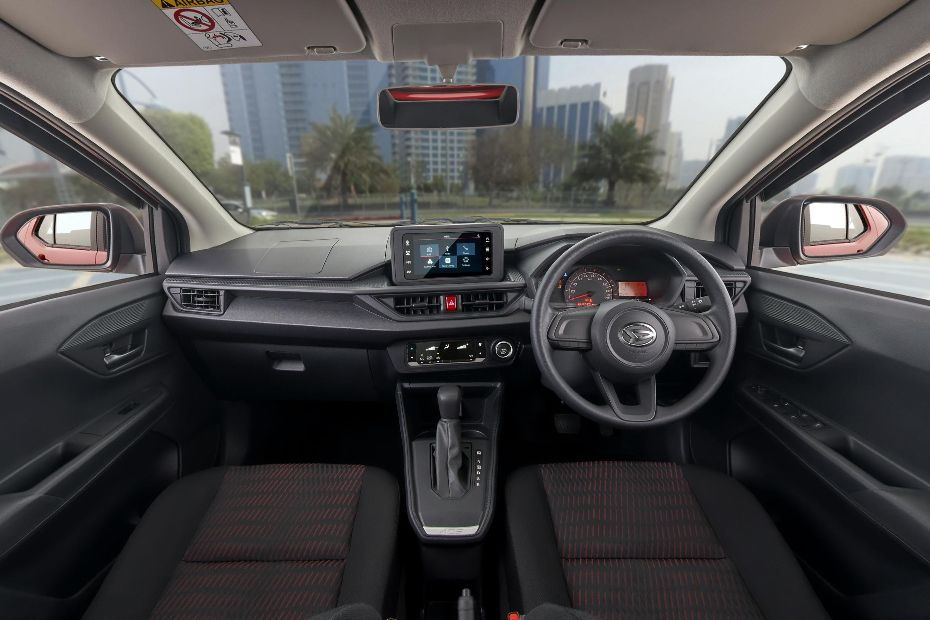
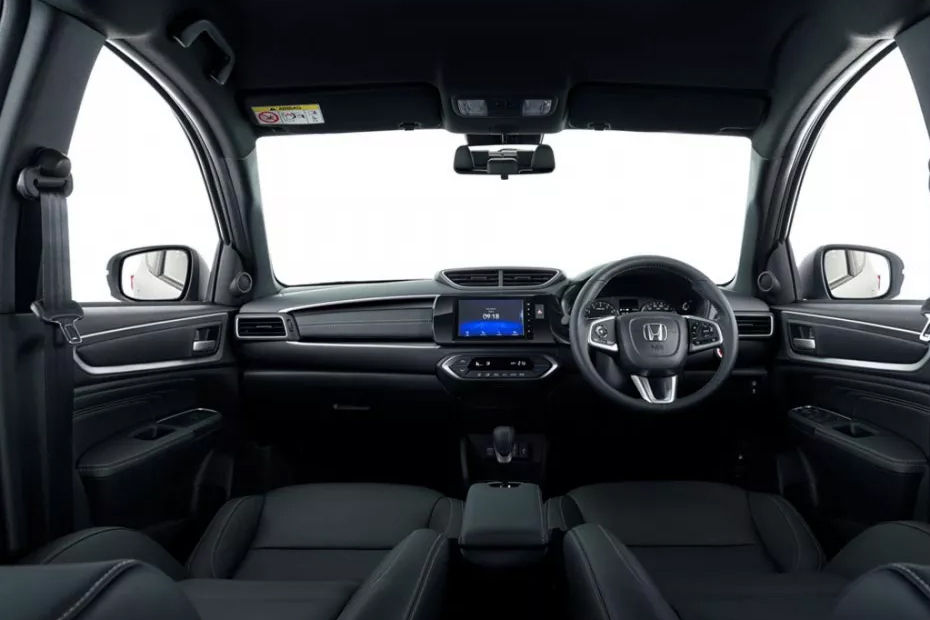
feat: Add intro car images (Brio, Innova, Calya) and scrape remaining Honda SUV & Carry images

diff --git a/app/src/main/java/uk/usedcars/marketplace/dealers/auto/finance/presentation/ui/screens/IntroScreen.kt b/app/src/main/java/uk/usedcars/marketplace/dealers/auto/finance/presentation/ui/screens/IntroScreen.kt
@@ -19,13 +19,16 @@ import androidx.compose.ui.unit.dp
 import androidx.compose.ui.unit.sp
 import kotlinx.coroutines.launch
 
+import coil.compose.AsyncImage
+import androidx.compose.ui.layout.ContentScale
+
 @OptIn(ExperimentalFoundationApi::class)
 @Composable
 fun IntroScreen(onFinishIntro: () -> Unit) {
     val introPages = listOf(
-        IntroPage("Selamat Datang", "Platform jual beli mobil bekas terpercaya. Temukan mobil impianmu dengan mudah."),
-        IntroPage("Banyak Pilihan", "Temukan berbagai macam mobil dari berbagai marketplace terkemuka di satu tempat."),
-        IntroPage("Mudah & Cepat", "Transaksi aman, cepat, dan transparan. Wujudkan mobil impianmu sekarang juga.")
+        IntroPage("Selamat Datang", "Platform jual beli mobil bekas terpercaya. Temukan mobil impianmu dengan mudah.", "https://raw.githubusercontent.com/amrimarihotjati/Jual-Beli-Mobil-Bekas/main/images/c2_0.jpg"),
+        IntroPage("Banyak Pilihan", "Temukan berbagai macam mobil dari berbagai marketplace terkemuka di satu tempat.", "https://raw.githubusercontent.com/amrimarihotjati/Jual-Beli-Mobil-Bekas/main/images/c3_0.jpg"),
+        IntroPage("Mudah & Cepat", "Transaksi aman, cepat, dan transparan. Wujudkan mobil impianmu sekarang juga.", "https://raw.githubusercontent.com/amrimarihotjati/Jual-Beli-Mobil-Bekas/main/images/c12_0.jpg")
     )
 
     val pagerState = rememberPagerState(pageCount = { introPages.size })
@@ -107,15 +110,20 @@ fun IntroScreen(onFinishIntro: () -> Unit) {
                 horizontalAlignment = Alignment.CenterHorizontally,
                 verticalArrangement = Arrangement.Center
             ) {
-                // Placeholder for an illustration image
+                // Car Image
                 Box(
                     modifier = Modifier
                         .size(240.dp)
                         .clip(CircleShape)
-                        .background(MaterialTheme.colorScheme.secondary),
+                        .background(MaterialTheme.colorScheme.surfaceVariant),
                     contentAlignment = Alignment.Center
                 ) {
-                    Text("Gambar\nIlustrasi", color = MaterialTheme.colorScheme.onSurface, textAlign = TextAlign.Center)
+                    AsyncImage(
+                        model = introPages[page].imageUrl,
+                        contentDescription = "Intro Image",
+                        modifier = Modifier.fillMaxSize(),
+                        contentScale = ContentScale.Crop
+                    )
                 }
                 
                 Spacer(modifier = Modifier.height(48.dp))
@@ -139,4 +147,4 @@ fun IntroScreen(onFinishIntro: () -> Unit) {
     }
 }
 
-data class IntroPage(val title: String, val description: String)
+data class IntroPage(val title: String, val description: String, val imageUrl: String)

diff --git a/scrape_remaining2.py b/scrape_remaining2.py
@@ -1,0 +1,77 @@
+import urllib.request
+import re
+import json
+import os
+import time
+
+repo_raw_base = "https://raw.githubusercontent.com/amrimarihotjati/Jual-Beli-Mobil-Bekas/main/images"
+
+with open('config.json', 'r') as f:
+    data = json.load(f)
+
+# Hardcoded overrides for the ones that failed
+overrides = {
+    "c7": "honda/hr-v",
+    "c14": "honda/br-v",
+    "c20": "honda/cr-v",
+    "c50": "suzuki/carry"
+}
+
+for car in data.get('used_cars', []):
+    car_id = car['id']
+    if car_id in overrides:
+        url_path = overrides[car_id]
+        url = f"https://www.oto.com/mobil-baru/{url_path}/gambar"
+        
+        req = urllib.request.Request(url, headers={'User-Agent': 'Mozilla/5.0'})
+        try:
+            print(f"Scraping {url} for {car_id} ({car['name']})...")
+            html = urllib.request.urlopen(req).read().decode('utf-8')
+            matches = re.findall(r'https://imgcdn.oto.com/large/[^"\']*?\.jpg', html)
+            unique_urls = list(dict.fromkeys(matches))
+            
+            if not unique_urls:
+                continue
+                
+            perspectives = {}
+            for u in unique_urls:
+                if 'front' in u or 'grille' in u: perspectives.setdefault('front', []).append(u)
+                elif 'rear' in u or 'tail' in u: perspectives.setdefault('rear', []).append(u)
+                elif 'side' in u or 'wheel' in u: perspectives.setdefault('side', []).append(u)
+                elif 'interior' in u or 'dashboard' in u or 'seat' in u or 'steering' in u: perspectives.setdefault('interior', []).append(u)
+                else: perspectives.setdefault('other', []).append(u)
+            
+            selected_urls = []
+            if 'front' in perspectives and perspectives['front']: selected_urls.append(perspectives['front'][0])
+            if 'rear' in perspectives and perspectives['rear']: selected_urls.append(perspectives['rear'][0])
+            if 'interior' in perspectives and perspectives['interior']: selected_urls.append(perspectives['interior'][0])
+            if len(selected_urls) < 3 and 'side' in perspectives and perspectives['side']: selected_urls.append(perspectives['side'][0])
+            
+            for u in unique_urls:
+                if len(selected_urls) >= 3: break
+                if u not in selected_urls: selected_urls.append(u)
+                
+            new_urls = []
+            for idx, dl_url in enumerate(selected_urls[:3]):
+                filename = f"{car_id}_{idx}.jpg"
+                filepath = os.path.join('images', filename)
+                req_img = urllib.request.Request(dl_url, headers={'User-Agent': 'Mozilla/5.0'})
+                try:
+                    with urllib.request.urlopen(req_img, timeout=10) as response, open(filepath, 'wb') as out_file:
+                        out_file.write(response.read())
+                    if os.path.getsize(filepath) > 2000:
+                        new_urls.append(f"{repo_raw_base}/{filename}")
+                except Exception:
+                    pass
+                time.sleep(0.5)
+            
+            if new_urls:
+                car['image_urls'] = new_urls
+                print(f"--> Success {car_id} : {len(new_urls)} images")
+            
+        except Exception as e:
+            print(f"Error for {car_id}: {e}")
+
+with open('config.json', 'w') as f:
+    json.dump(data, f, indent=4)
+print("Config updated!")

diff --git a/test_urls.py b/test_urls.py
@@ -1,0 +1,16 @@
+import urllib.request
+urls = [
+    "https://www.oto.com/mobil-baru/honda/hr-v/gambar",
+    "https://www.oto.com/mobil-baru/honda/br-v/gambar",
+    "https://www.oto.com/mobil-baru/honda/cr-v/gambar",
+    "https://www.oto.com/mobil-baru/nissan/livina/gambar",
+    "https://www.oto.com/mobil-baru/wuling/air-ev/gambar",
+    "https://www.oto.com/mobil-baru/suzuki/carry/gambar"
+]
+for u in urls:
+    req = urllib.request.Request(u, headers={'User-Agent': 'Mozilla/5.0'})
+    try:
+        urllib.request.urlopen(req)
+        print(f"SUCCESS: {u}")
+    except Exception as e:
+        print(f"FAILED: {u} - {e}")

diff --git a/test_urls2.py b/test_urls2.py
@@ -1,0 +1,12 @@
+import urllib.request
+urls = [
+    "https://www.oto.com/mobil-baru/honda/hrv/gambar",
+    "https://www.oto.com/mobil-baru/wuling/airev/gambar"
+]
+for u in urls:
+    req = urllib.request.Request(u, headers={'User-Agent': 'Mozilla/5.0'})
+    try:
+        urllib.request.urlopen(req)
+        print(f"SUCCESS: {u}")
+    except Exception as e:
+        print(f"FAILED: {u} - {e}")